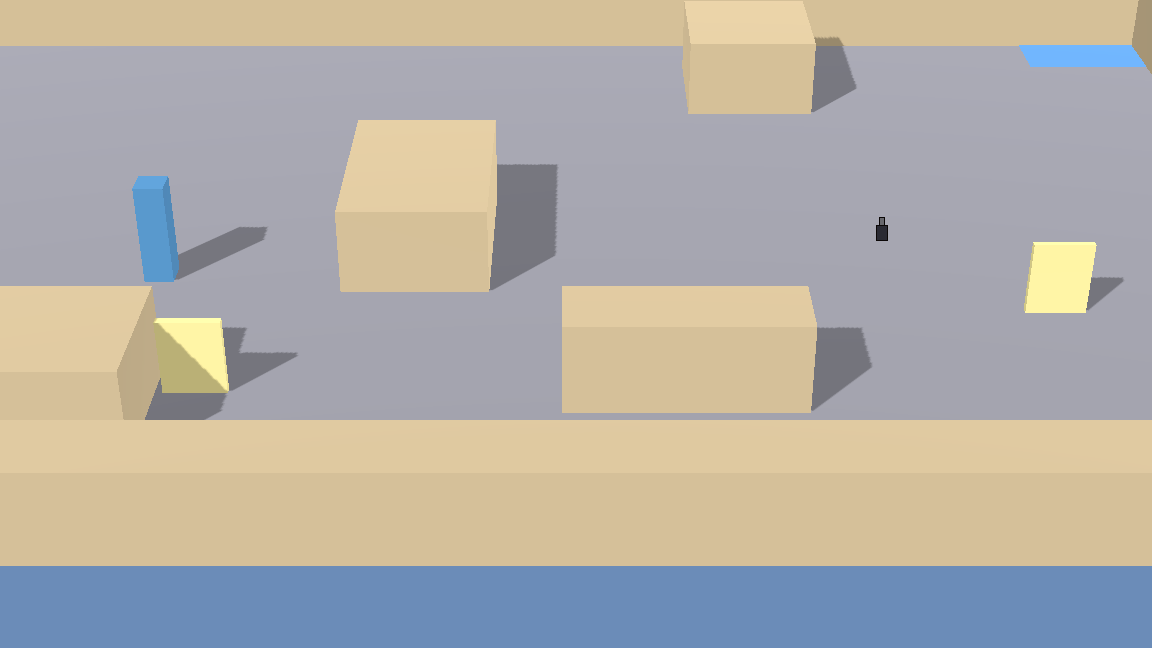
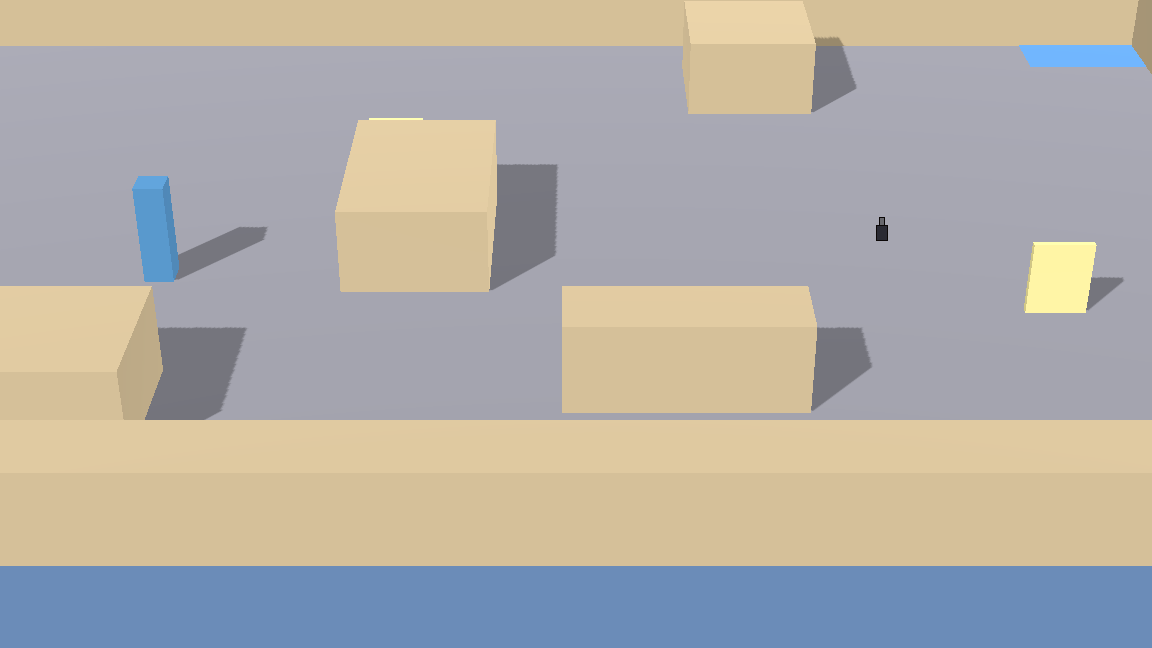
feat: first-encounter placement rules and the segment redesign (overworld stories 086, 119)
validate_maps now measures the first-encounter leg along L_crit: the first
patrol clears safe_radius_m + symbol_chase_m + first_patrol_clearance_m,
the faction clue and teaching bark come before the first notice point, and
the first patrol's section bypass ratio is at most 1.1. The segment's west
Clerk and clue poster moved to satisfy them; story 087's walk-ins are
recaptured (24 approaches, all visible).

Story: OW-086, OW-119

Changed region(s): [[0.125, 0.4938, 0.25, 0.6173]]

diff --git a/production/epics/overworld-exploration-encounters/story-119-faction-clue-placement-ordering.md b/production/epics/overworld-exploration-encounters/story-119-faction-clue-placement-ordering.md
@@ -1,7 +1,7 @@
 # Story 119: Each faction's first-encounter clue sits on the critical path before the first patrol
 
 > **Epic**: Overworld Exploration & Encounters
-> **Status**: Blocked (2026-10-30): the segment's first patrol and clue placement fail the rule; needs a level-design pass
+> **Status**: Complete (2026-10-30)
 > **Layer**: Feature
 > **Type**: Logic
 > **Estimate**: M
@@ -31,7 +31,7 @@
 
 *From GDD `design/gdd/overworld-exploration-encounters.md`, scoped to this story:*
 
-- [ ] **AC-50 [D] (R16)** On each faction's first-encounter map, at least one marker tagged `faction_clue` lies within `interact_reach_m` of a cell on the critical path. Distances are **arc lengths along the leg's `L_crit` path from the leg's start EntryPoint** (for the Paris segment, the Town-side one). The clue comes before the first point within any notice radius, and the first patrol lies at least `safe_radius_m + symbol_chase_m + first_patrol_clearance_m` along it. A marker tagged `optional_teach` satisfies the same ordering, and it is a proximity bark or on-screen art, never a `confirm`-only line.
+- [x] **AC-50 [D] (R16)** On each faction's first-encounter map, at least one marker tagged `faction_clue` lies within `interact_reach_m` of a cell on the critical path. Distances are **arc lengths along the leg's `L_crit` path from the leg's start EntryPoint** (for the Paris segment, the Town-side one). The clue comes before the first point within any notice radius, and the first patrol lies at least `safe_radius_m + symbol_chase_m + first_patrol_clearance_m` along it. A marker tagged `optional_teach` satisfies the same ordering, and it is a proximity bark or on-screen art, never a `confirm`-only line.
 
 ---
 
@@ -64,7 +64,7 @@ planned ones; `/dev-story` replaces the list with the files it changed; `/story-
 checks scope against it.*
 
 - `tools/ci/validate_maps.gd` (faction-clue and `optional_teach` placement/ordering check)
-- `tests/unit/overworld/data/faction_clue_placement_test.gd`
+- `tests/unit/overworld/first_encounter_placement_test.gd`
 
 ---
 
@@ -77,9 +77,9 @@ checks scope against it.*
 ## Test Evidence
 
 **Story Type**: Logic
-**Required evidence**: `tests/unit/overworld/data/faction_clue_placement_test.gd` — must exist and pass.
+**Required evidence**: `tests/unit/overworld/first_encounter_placement_test.gd` — must exist and pass.
 
-**Status**: [ ] Not yet created
+**Status**: [x] Created and passing
 
 ---
 
@@ -97,3 +97,18 @@ Measured on the shipped segment (the Paris first-encounter map) along `L_crit` f
 - The `faction_clue` poster (8.5, 12.5) is **not within `interact_reach_m` of any critical-path cell**.
 
 Fixing it is a segment level-design pass: move the west Clerk past 10.5 m along the path, and put the clue poster and the `optional_teach` NPC on the path before the first notice point. Do it together with story 086 (first-patrol bypass ratio and the teaching speaker) and story 103 (dungeon density). Then re-prove the bypass and pressure validators, recapture story 087's walk-ins, and update the tests that pin segment coordinates. The validator itself (arc lengths over the `L_crit` cell set, where distance-from-start plus distance-to-end equals `L_crit`) is straightforward and should land with the content.
+
+## Completion Notes (2026-10-30): the segment level-design pass
+
+- `MapValidator.first_encounter_metrics()` and `check_first_encounter()` run in `validate_maps`. Test: `tests/unit/overworld/first_encounter_placement_test.gd`. The first-encounter map is the first chapter step's map holding a patrol (Paris: the segment, leg `segment_to_dungeon` from `from_town`).
+- Measurements are arcs along `L_crit`; the path set is every cell on a tied shortest route.
+- New knobs: `first_bypass_ratio_max` 1.1 and `first_patrol_clearance_m` 3.
+- The tool `tools/level_review/first_encounter_report.gd` prints the numbers for level review.
+- **Content change:**
+  - The west Clerk's patrol moved from (9.5, 5.5)–(14.5, 5.5) to (14.5, 7.5)–(17.5, 7.5).
+  - The `faction_clue` poster moved from (8.5, 12.5) to (10.5, 6.5), beside the row 7–9 wall on the path.
+  - Old layout: first notice 3.4 m, first patrol 6.2 m, clue off the path, section ratio 1.43.
+  - New layout: first notice 8.8 m, first patrol 10.8 m (≥ 10.5), clue at 5.8 m, the Café regular's teaching bark at 1.0 m, section ratio 1.0.
+- The candidate (15.5, 7.5)–(15.5, 10.5) passed every rule but failed three of story 087's south walk-ins (0% visible behind the row-12 wall block), so it was rejected.
+- Story 087's walk-ins were recaptured: 24 approaches, 0 failures. I opened the west Clerk's 225° and 270° captures myself; the Clerk is unoccluded in both.
+- `validate_maps` is clean, and the suite passes 1149/1149.

diff --git a/production/epics/overworld-exploration-encounters/story-086-first-patrol-bypass-ratio-and-teaching-speaker.md b/production/epics/overworld-exploration-encounters/story-086-first-patrol-bypass-ratio-and-teaching-speaker.md
@@ -1,7 +1,7 @@
 # Story 086: The first-encounter map's teaching bypass is visibly easy, and its speaker stands before the first notice radius
 
 > **Epic**: Overworld Exploration & Encounters
-> **Status**: Ready
+> **Status**: Complete (2026-10-30)
 > **Layer**: Feature
 > **Type**: Logic
 > **Estimate**: M
@@ -31,7 +31,7 @@
 
 *From GDD `design/gdd/overworld-exploration-encounters.md`, scoped to this story:*
 
-- [ ] **AC-31c [D] (R12, R16)** On the first-encounter map, the first patrol's section of the leg (rule 12: from the last cell before its band to the first cell after it, on `L_crit`) has `L_bypass / L_crit ≤ first_bypass_ratio_max`. The `optional_teach` speaker stands within `interact_reach_m · 2` of a critical-path cell before the first notice radius.
+- [x] **AC-31c [D] (R12, R16)** On the first-encounter map, the first patrol's section of the leg (rule 12: from the last cell before its band to the first cell after it, on `L_crit`) has `L_bypass / L_crit ≤ first_bypass_ratio_max`. The `optional_teach` speaker stands within `interact_reach_m · 2` of a critical-path cell before the first notice radius.
 
 ---
 
@@ -59,7 +59,7 @@
 ## Files
 
 - `tools/ci/validate_maps.gd`
-- `tests/unit/overworld/data/first_patrol_teaching_bypass_test.gd`
+- `tests/unit/overworld/first_encounter_placement_test.gd`
 
 ---
 
@@ -73,9 +73,9 @@
 
 **Story Type**: Logic (Config/Data validation)
 **Required evidence**:
-- `tests/unit/overworld/data/first_patrol_teaching_bypass_test.gd` — must exist and pass. Gate level: BLOCKING.
+- `tests/unit/overworld/first_encounter_placement_test.gd` — must exist and pass. Gate level: BLOCKING.
 
-**Status**: [ ] Not yet created
+**Status**: [x] Created and passing
 
 ---
 
@@ -83,3 +83,18 @@
 
 - Depends on: `production/epics/overworld-exploration-encounters/story-083-bypass-lane-ordered-search.md`, `production/epics/overworld-exploration-encounters/story-085-dungeon-pressure-floor.md`
 - Unlocks: `production/epics/overworld-exploration-encounters/story-087-patrol-visibility-before-the-notice-radius.md`
+
+## Completion Notes (2026-10-30): the segment level-design pass
+
+- `MapValidator.first_encounter_metrics()` and `check_first_encounter()` run in `validate_maps`. Test: `tests/unit/overworld/first_encounter_placement_test.gd`. The first-encounter map is the first chapter step's map holding a patrol (Paris: the segment, leg `segment_to_dungeon` from `from_town`).
+- Measurements are arcs along `L_crit`; the path set is every cell on a tied shortest route.
+- New knobs: `first_bypass_ratio_max` 1.1 and `first_patrol_clearance_m` 3.
+- The tool `tools/level_review/first_encounter_report.gd` prints the numbers for level review.
+- **Content change:**
+  - The west Clerk's patrol moved from (9.5, 5.5)–(14.5, 5.5) to (14.5, 7.5)–(17.5, 7.5).
+  - The `faction_clue` poster moved from (8.5, 12.5) to (10.5, 6.5), beside the row 7–9 wall on the path.
+  - Old layout: first notice 3.4 m, first patrol 6.2 m, clue off the path, section ratio 1.43.
+  - New layout: first notice 8.8 m, first patrol 10.8 m (≥ 10.5), clue at 5.8 m, the Café regular's teaching bark at 1.0 m, section ratio 1.0.
+- The candidate (15.5, 7.5)–(15.5, 10.5) passed every rule but failed three of story 087's south walk-ins (0% visible behind the row-12 wall block), so it was rejected.
+- Story 087's walk-ins were recaptured: 24 approaches, 0 failures. I opened the west Clerk's 225° and 270° captures myself; the Clerk is unoccluded in both.
+- `validate_maps` is clean, and the suite passes 1149/1149.

diff --git a/production/qa/evidence/story-087-patrol-visibility/report.md b/production/qa/evidence/story-087-patrol-visibility/report.md
@@ -4,14 +4,14 @@ Generated by `tools/level_review/walkin_capture.gd`. Each row is one approach: t
 
 | Map | Symbol | Approach (deg) | Entry cell | Visible | Result | Clipped by frame | Capture |
 |---|---|---|---|---|---|---|---|
-| map_paris_segment_placeholder | enc_paris_clerks_west | 0 | (19, 4) | 100% | pass |  | `paris_segment_placeholder__enc_paris_clerks_west__s0.png` |
-| map_paris_segment_placeholder | enc_paris_clerks_west | 45 | (18, 3) | 100% | pass |  | `paris_segment_placeholder__enc_paris_clerks_west__s1.png` |
-| map_paris_segment_placeholder | enc_paris_clerks_west | 90 | (15, 1) | 100% | pass |  | `paris_segment_placeholder__enc_paris_clerks_west__s2.png` |
-| map_paris_segment_placeholder | enc_paris_clerks_west | 135 | (5, 3) | 100% | pass |  | `paris_segment_placeholder__enc_paris_clerks_west__s3.png` |
-| map_paris_segment_placeholder | enc_paris_clerks_west | 180 | (4, 6) | 100% | pass |  | `paris_segment_placeholder__enc_paris_clerks_west__s4.png` |
-| map_paris_segment_placeholder | enc_paris_clerks_west | 225 | (5, 8) | 100% | pass |  | `paris_segment_placeholder__enc_paris_clerks_west__s5.png` |
-| map_paris_segment_placeholder | enc_paris_clerks_west | 270 | (8, 10) | 100% | pass |  | `paris_segment_placeholder__enc_paris_clerks_west__s6.png` |
-| map_paris_segment_placeholder | enc_paris_clerks_west | 315 | (18, 7) | 100% | pass |  | `paris_segment_placeholder__enc_paris_clerks_west__s7.png` |
+| map_paris_segment_placeholder | enc_paris_clerks_west | 0 | (22, 6) | 100% | pass |  | `paris_segment_placeholder__enc_paris_clerks_west__s0.png` |
+| map_paris_segment_placeholder | enc_paris_clerks_west | 45 | (20, 3) | 100% | pass |  | `paris_segment_placeholder__enc_paris_clerks_west__s1.png` |
+| map_paris_segment_placeholder | enc_paris_clerks_west | 90 | (18, 2) | 100% | pass |  | `paris_segment_placeholder__enc_paris_clerks_west__s2.png` |
+| map_paris_segment_placeholder | enc_paris_clerks_west | 135 | (10, 5) | 100% | pass |  | `paris_segment_placeholder__enc_paris_clerks_west__s3.png` |
+| map_paris_segment_placeholder | enc_paris_clerks_west | 180 | (9, 6) | 100% | pass |  | `paris_segment_placeholder__enc_paris_clerks_west__s4.png` |
+| map_paris_segment_placeholder | enc_paris_clerks_west | 225 | (11, 10) | 100% | pass |  | `paris_segment_placeholder__enc_paris_clerks_west__s5.png` |
+| map_paris_segment_placeholder | enc_paris_clerks_west | 270 | (18, 12) | 100% | pass |  | `paris_segment_placeholder__enc_paris_clerks_west__s6.png` |
+| map_paris_segment_placeholder | enc_paris_clerks_west | 315 | (21, 9) | 100% | pass |  | `paris_segment_placeholder__enc_paris_clerks_west__s7.png` |
 | map_paris_segment_placeholder | enc_paris_clerks_east | 0 | (22, 7) | 100% | pass |  | `paris_segment_placeholder__enc_paris_clerks_east__s0.png` |
 | map_paris_segment_placeholder | enc_paris_clerks_east | 45 | (20, 4) | 100% | pass |  | `paris_segment_placeholder__enc_paris_clerks_east__s1.png` |
 | map_paris_segment_placeholder | enc_paris_clerks_east | 90 | (18, 3) | 100% | pass |  | `paris_segment_placeholder__enc_paris_clerks_east__s2.png` |

diff --git a/production/epics/overworld-exploration-encounters/EPIC.md b/production/epics/overworld-exploration-encounters/EPIC.md
@@ -149,7 +149,7 @@ It depends on Game State (Done), Input (`get_move_vector()`), Content Data, and 
 | 083 | [The ordered search finds a bypass lane round every patrol band on every critical-path leg](story-083-bypass-lane-ordered-search.md) | Logic | Complete | ADR-0012 |
 | 084 | [No walk-grid route reaches the dungeon's boss-chamber exit without crossing the story encounter](story-084-story-encounter-not-routable-around.md) | Logic | Complete | ADR-0012 |
 | 085 | [The dungeon's pressure floor — at least half the symbols' bands cross the shortest critical path](story-085-dungeon-pressure-floor.md) | Logic | Complete | ADR-0012 |
-| 086 | [The first-encounter map's teaching bypass is visibly easy, and its speaker stands before the first notice radius](story-086-first-patrol-bypass-ratio-and-teaching-speaker.md) | Logic | Ready | ADR-0012 |
+| 086 | [The first-encounter map's teaching bypass is visibly easy, and its speaker stands before the first notice radius](story-086-first-patrol-bypass-ratio-and-teaching-speaker.md) | Logic | Complete | ADR-0012 |
 | 087 | [Every symbol's patrol is on screen from every approach, before the leader can be noticed](story-087-patrol-visibility-before-the-notice-radius.md) | Visual/Feel | In Review | ADR-0012 |
 | 088 | [Contact with the boss never finds it moved, and its descriptor forbids Flee but allows Retreat](story-088-boss-contact-descriptor-flags.md) | Integration | Complete | ADR-0012 |
 | 089 | [Defeat → Retreat against the boss goes to the pre-dungeon camp once it is passed, or the Town café before](story-089-story-encounter-flee-returns-to-registered-camp.md) | Integration | Complete | ADR-0012 |
@@ -182,7 +182,7 @@ It depends on Game State (Done), Input (`get_move_vector()`), Content Data, and 
 | 116 | [Measure the share of chapter time spent walking against the budget](story-116-paris-walk-share-playtest.md) | Integration | Ready | ADR-0012 |
 | 117 | [Every active clutter marker either responds or blocks a route](story-117-clutter-marker-gag-or-blocker-validation.md) | Logic | Ready | ADR-0012 |
 | 118 | [Each gag response type behaves as specified](story-118-gag-response-behavior.md) | Logic | Complete | ADR-0012 |
-| 119 | [Each faction's first-encounter clue sits on the critical path before the first patrol](story-119-faction-clue-placement-ordering.md) | Logic | Blocked | ADR-0012 |
+| 119 | [Each faction's first-encounter clue sits on the critical path before the first patrol](story-119-faction-clue-placement-ordering.md) | Logic | Complete | ADR-0012 |
 | 120 | [The Paris clue is legible on the Deck and the comprehension check passes](story-120-faction-clue-narrative-signoff-and-comprehension.md) | Config/Data | Ready | ADR-0012 |
 | 121 | [Every narrative guardrail item has a passing sign-off entry](story-121-narrative-guardrail-signoff-checklist.md) | Config/Data | Ready | ADR-0012 |
 | 122 | [Confirm at a clue poster or decree gag shows its LocText verbatim](story-122-clue-and-decree-loctext-display.md) | Logic | Ready | ADR-0012 |
